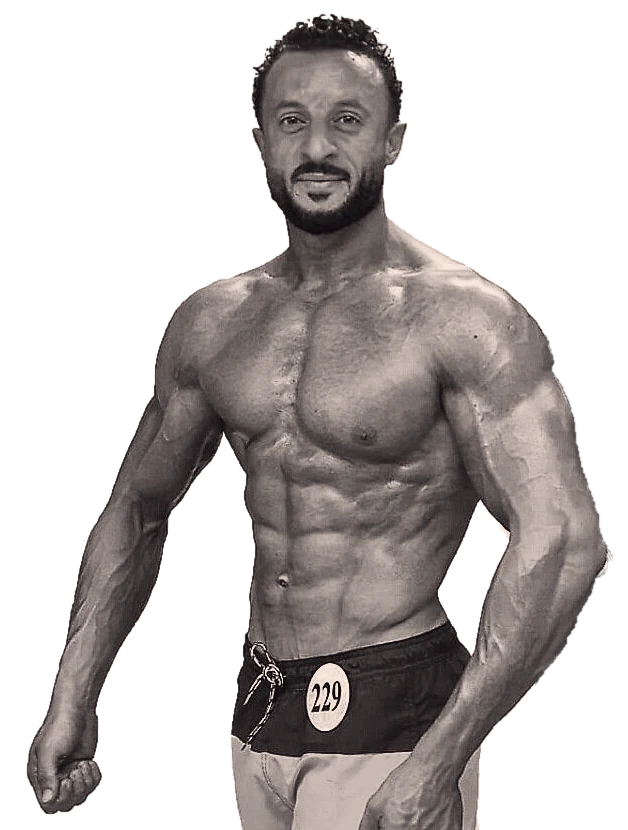
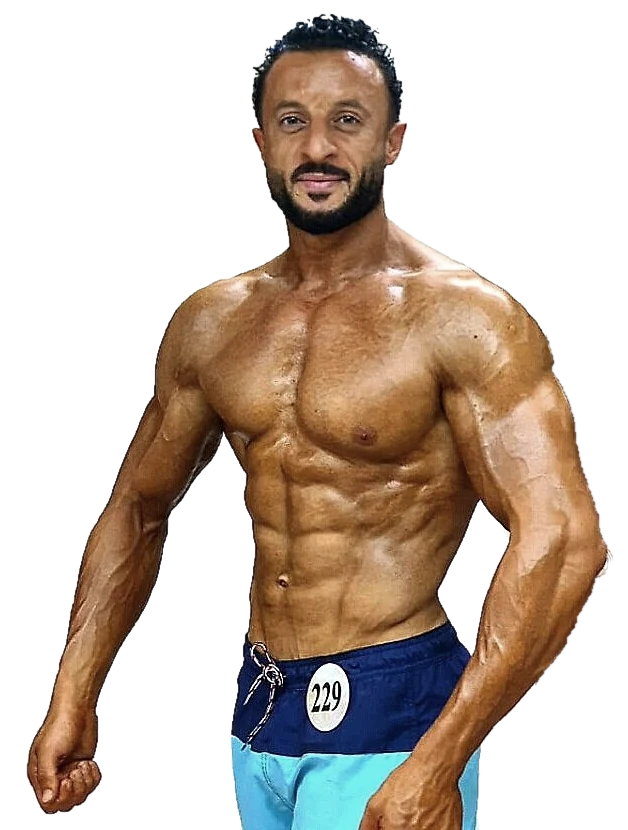
Give MEGO a portrait-led mobile layout and faster coaching enquiries

diff --git a/src/index.css b/src/index.css
@@ -339,26 +339,57 @@ main:focus, section:focus { outline: none; }
 .services .eyebrow { color: #a12f28; }
 .services .section-heading > p:last-child { color: #514d4b; }
 
-.service-grid {
+.services > .wrap {
   display: grid;
-  grid-template-columns: repeat(3, minmax(0, 1fr));
-  margin-block-start: clamp(2rem, 4vw, 3.75rem);
-  border: 1px solid #cbc3bc;
+  grid-template-columns: .82fr 1.18fr;
+  align-items: start;
+  gap: clamp(2.5rem, 7vw, 7rem);
 }
-
-.service {
+.services .section-heading { max-inline-size: 30rem; }
+.service-grid { border-block-start: 2px solid var(--ink); }
+.service { border-block-end: 1px solid #bcb4ab; }
+.service summary {
   display: grid;
-  grid-template-rows: auto auto 1fr auto auto;
-  justify-items: start;
-  padding: clamp(1.4rem, 2.75vw, 2.75rem);
-  min-inline-size: 0;
+  grid-template-columns: 1fr auto;
+  gap: .25rem .75rem;
+  align-items: center;
+  padding-block: 1.25rem;
+  cursor: pointer;
+  list-style: none;
 }
-
-.service + .service { border-inline-start: 1px solid #cbc3bc; }
-.service-mode { font-size: .875rem; color: #8e3028; font-weight: 700; }
-.service h3 { font: 800 clamp(2rem, 3.25vw, 3.5rem)/.95 var(--display); margin-block: .5rem 1rem; }
-[dir='rtl'] .service h3 { font: 900 clamp(1.7rem, 2.7vw, 2.9rem)/1.12 var(--arabic); }
-
+.service summary::-webkit-details-marker { display: none; }
+.service-mode {
+  font-size: .8125rem;
+  color: #8e3028;
+  font-weight: 700;
+  letter-spacing: .04em;
+}
+.service-name {
+  grid-column: 1;
+  font: 800 clamp(2rem, 3.2vw, 3.35rem)/1 var(--display);
+}
+[dir='rtl'] .service-name { font: 800 clamp(1.75rem, 2.7vw, 2.9rem)/1.15 var(--arabic); }
+.service-toggle {
+  grid-column: 2;
+  grid-row: 1 / 3;
+  display: grid;
+  place-items: center;
+  inline-size: 2.5rem;
+  block-size: 2.5rem;
+  border: 1px solid #bcb4ab;
+  border-radius: 50%;
+}
+.service-toggle::before, .service-toggle::after {
+  content: '';
+  grid-area: 1 / 1;
+  inline-size: .85rem;
+  block-size: 2px;
+  background: currentColor;
+}
+.service-toggle::after { transform: rotate(90deg); }
+.service[open] .service-toggle { background: var(--ink); border-color: var(--ink); color: var(--paper); }
+.service[open] .service-toggle::after { display: none; }
+.service-body { max-inline-size: 36rem; padding-block-end: 1.6rem; }
 .service-summary { color: #514d4b; }
 .service ul { list-style: none; padding: 1rem 0 0; margin-block: 1rem 1.6rem; border-block-start: 1px solid #d6cec6; inline-size: 100%; }
 .service li { display: flex; align-items: baseline; gap: .65rem; font-size: .9rem; margin-block: .25rem; }
@@ -425,14 +456,24 @@ main:focus, section:focus { outline: none; }
   .hero-portrait { inset-inline-end: 6%; }
   .hero-visual { inset-inline-start: 33%; }
   .proof-grid li { flex-direction: column; gap: .45rem; min-block-size: 6.9rem; text-align: center; }
-  .service h3 { min-block-size: 2lh; }
+
 }
 
 @media (max-width: 740px) {
   :root { --header-height: 64px; }
 
-  .desktop-nav, .header-book { display: none; }
-  .header-actions { gap: .85rem; }
+  .desktop-nav { display: none; }
+  .header-inner { gap: .5rem; }
+  .header-actions { gap: clamp(.35rem, 1.8vw, .8rem); }
+  .language-button { min-inline-size: 2.75rem; }
+  .header-book {
+    min-block-size: 2.75rem;
+    padding-inline: .8rem;
+    background: var(--paper);
+    border-color: var(--paper);
+    color: var(--ink);
+  }
+  .header-book:hover { background: white; }
 
   .menu-button {
     display: grid;
@@ -459,50 +500,83 @@ main:focus, section:focus { outline: none; }
   .mobile-nav a { padding-block: .65rem; font-weight: 600; }
   .mobile-nav a + a { border-block-start: 1px solid var(--line); }
 
-  .hero-inner { min-block-size: 0; }
-  .hero-copy { padding-block: 3rem 2rem; }
-  .hero-title { font-size: clamp(4.5rem, 13vw, 6.2rem); }
-  [dir='rtl'] .hero-title { font-size: clamp(3.5rem, 10vw, 5.2rem); }
-  .hero-description { max-inline-size: 25rem; }
-
-  .hero-visual {
-    position: relative;
-    order: 1;
-    inset: auto;
-    z-index: 0;
-    block-size: clamp(20rem, 84vw, 31rem);
-    margin-inline: calc(-1 * clamp(1.25rem, 5.3vw, 5.5rem));
-    background: repeating-linear-gradient(120deg, #ffb5a916 0 1px, transparent 1px 38px),
-                radial-gradient(ellipse at 57% 44%, #96433a, #39171b 83%);
+  .hero-inner {
+    inline-size: 100%;
+    min-block-size: clamp(35rem, calc(96svh - var(--header-height)), 46rem);
+    align-items: end;
   }
+  .hero-visual {
+    inset: 0;
+    background: radial-gradient(ellipse at 53% 21%, #b7543e, #743328 50%, #271712 88%);
+  }
+  .hero-background-type {
+    inset-block-start: .65rem;
+    inset-inline: 0;
+    text-align: center;
+    font: 800 clamp(8rem, 47vw, 17rem)/.78 var(--display);
+    color: #f3d5ae;
+    letter-spacing: -.035em;
+  }
+  .hero-portrait {
+    left: 50%;
+    right: auto;
+    top: 1.45rem;
+    bottom: auto;
+    transform: translateX(-47%);
+    height: 92%;
+    filter: drop-shadow(7px 6px 12px #32151166);
+  }
+  .hero-visual::after, [dir='rtl'] .hero-visual::after {
+    background: linear-gradient(to top, #161310 0%, #161310fa 12%, #161310c9 27%, #16131036 49%, transparent 64%);
+  }
+  .hero-copy {
+    max-inline-size: none;
+    padding: clamp(14.75rem, 39svh, 21rem) clamp(1.25rem, 5.3vw, 2.5rem) 1.4rem;
+  }
+  .hero-copy .eyebrow {
+    color: #ffebda;
+    font-size: .78rem;
+    text-shadow: 0 1px 6px #351710;
+  }
+  .hero-copy .eyebrow::before { background: var(--accent); inline-size: 1.15rem; }
+  .hero-title {
+    font-size: clamp(4rem, 18vw, 7rem);
+    line-height: .82;
+    margin-block: .65rem .8rem;
+  }
+  .hero-title em { color: #ff735c; }
+  [dir='rtl'] .hero-title { font-size: clamp(3rem, 13vw, 5.25rem); line-height: 1.04; }
+  .hero-description { max-inline-size: 27rem; color: #f3ebe6; line-height: 1.48; }
+  .hero-actions { gap: .75rem; margin-block-start: 1.15rem; }
+  .hero-actions .button { flex: 1 0 auto; max-width: 14rem; }
+  .film-button { min-block-size: 3.25rem; gap: .45rem; }
+  .play-icon { inline-size: 2rem; block-size: 2rem; }
+  .hero-credit { display: none; }
 
-  .hero-visual::after, [dir='rtl'] .hero-visual::after { background: linear-gradient(0deg, #151113 1%, transparent 30%); }
-  .hero-portrait { inset-inline-end: 50%; transform: translateX(50%); block-size: 106%; inset-block-end: -9%; }
-  [dir='rtl'] .hero-portrait { transform: translateX(-50%); }
-  .hero-background-type { inset-inline-end: 8%; inset-block-start: 16%; font-size: clamp(9rem, 34vw, 15rem); }
-  .hero-credit { z-index: 1; inset-block-end: 1rem; font-size: .75rem; }
+  .proof-grid li { min-block-size: 6.5rem; padding-inline: .35rem; }
+  .proof-grid strong { font-size: clamp(2.45rem, 9vw, 3.5rem); }
+  .proof-grid span { max-inline-size: 8rem; font-size: .8125rem; }
 
-  .service-grid { grid-template-columns: 1fr; }
-  .service + .service { border-inline-start: 0; border-block-start: 1px solid #cbc3bc; }
-  .service h3 { min-block-size: 0; margin-block-end: .75rem; }
+  .services > .wrap { grid-template-columns: 1fr; gap: 1.65rem; }
+  .service-body .button { min-block-size: 3rem; }
+  .service summary { padding-block: 1rem; }
 
-  .about { padding-block: 0; }
+  .about { padding-block: 2rem 0; }
   .about-inner { grid-template-columns: 1fr; gap: 0; }
-  .about-photo { order: 1; margin-inline: calc(-1 * clamp(1.25rem, 5.3vw, 5.5rem)); }
-  .about-photo img { aspect-ratio: 1.04; }
-  .about-photo figcaption { padding-inline: clamp(1.25rem, 5.3vw, 5.5rem); }
-  .about-copy { padding-block: 3.5rem; }
+  .about-photo { border-inline-start: 4px solid var(--accent); }
+  .about-photo img { aspect-ratio: 1.45; object-position: 50% 35%; }
+  .about-copy { padding-block: 2rem 3.25rem; }
+  .credentials { padding-block: 3.5rem; }
+  .credential-list li { grid-template-columns: 4.5rem 1fr; }
+  .footer-main { display: grid; grid-template-columns: 1fr 1fr; gap: 1.5rem; }
+  .footer-brand { grid-column: 1 / -1; }
+  .site-footer nav { display: grid; gap: 0; }
+  .site-footer nav a { display: flex; align-items: center; min-block-size: 2.75rem; }
 
   .credential-layout { grid-template-columns: 1fr; }
   .contact-inner { flex-direction: column; align-items: start; gap: 1.5rem; }
-  .contact-action { justify-items: start; }
-}
-
-@media (max-width: 375px) {
-  .hero-title { font-size: clamp(3.55rem, 13vw, 4.5rem); }
-  [dir='rtl'] .hero-title { font-size: clamp(3rem, 10vw, 3.5rem); }
-  .proof-grid span { font-size: .75rem; }
-  .hero-credit { inset-inline-end: -.35rem; }
+  .contact-action { inline-size: 100%; }
+  .contact-action .button { inline-size: 100%; }
 }
 
 @media (prefers-reduced-motion: reduce) {

diff --git a/src/components/Services.jsx b/src/components/Services.jsx
@@ -59,22 +59,27 @@ export default function Services() {
         </div>
 
         <div className="service-grid">
-          {services.map(({ mode, name, summary, details, message }) => (
-            <article className="service" key={name[0]}>
-              <p className="service-mode">{t(...mode)}</p>
-              <h3>{t(...name)}</h3>
-              <p className="service-summary">{t(...summary)}</p>
-              <ul>{details.map(detail => <li key={detail[0]}>{t(...detail)}</li>)}</ul>
-              <a
-                className="button button--outline"
-                href={bookingUrl(t(...message))}
-                target="_blank"
-                rel="noopener noreferrer"
-                aria-label={t('Ask about ' + name[0].toLowerCase() + ' on WhatsApp', 'استفسر عن ' + name[1] + ' على واتساب')}
-              >
-                {t('Ask about this program', 'استفسر عن البرنامج')}
-              </a>
-            </article>
+          {services.map(({ mode, name, summary, details, message }, index) => (
+            <details className="service" name="coaching-program" key={name[0]} open={index === 0}>
+              <summary>
+                <span className="service-mode">{t(...mode)}</span>
+                <span className="service-name">{t(...name)}</span>
+                <span className="service-toggle" aria-hidden="true" />
+              </summary>
+              <div className="service-body">
+                <p className="service-summary">{t(...summary)}</p>
+                <ul>{details.map(detail => <li key={detail[0]}>{t(...detail)}</li>)}</ul>
+                <a
+                  className="button button--outline"
+                  href={bookingUrl(t(...message))}
+                  target="_blank"
+                  rel="noopener noreferrer"
+                  aria-label={t('Ask about ' + name[0].toLowerCase() + ' on WhatsApp', 'استفسر عن ' + name[1] + ' على واتساب')}
+                >
+                  {t('Ask MEGO on WhatsApp', 'اسأل ميجو على واتساب')}
+                </a>
+              </div>
+            </details>
           ))}
         </div>
       </div>

diff --git a/src/components/Hero.jsx b/src/components/Hero.jsx
@@ -33,20 +33,19 @@ export default function Hero() {
         </div>
 
         <div className="hero-copy">
-          <p className="eyebrow">{t('Physique coaching · Riyadh, KSA', 'تدريب فيزيك · الرياض، السعودية')}</p>
+          <p className="eyebrow">{t('Mohamed Abd Al Mageid · Riyadh', 'محمد عبد المجيد · الرياض')}</p>
           <h1 id="hero-title" className="hero-title">
-            <span>{t('BUILD YOUR', 'ابنِ جسمًا')}</span>
-            <span>{t('STRONGEST', 'أقوى')}</span>
-            <em>{t('PHYSIQUE.', 'مع ميجو.')}</em>
+            <span>{t('PHYSIQUE', 'تدريب')}</span>
+            <em>{t('COACHING.', 'فيزيك.')}</em>
           </h1>
           <p className="hero-description">
             {t(
-              'Train with Mohamed “MEGO” Abd Al Mageid. Personal coaching, a clear training plan, and nutrition built around your goals.',
-              'تدرّب مع محمد «ميجو» عبد المجيد. تدريب شخصي، وخطة تمرين واضحة، وتغذية تناسب أهدافك.'
+              'Train with me in Riyadh, or follow a personal lifting plan with weekly online check-ins.',
+              'تدرّب معي في الرياض، أو اتبع خطة تمارين مخصصة مع متابعة أسبوعية عن بُعد.'
             )}
           </p>
           <div className="hero-actions">
-            <a className="button button--primary" href="#contact">{t('Book coaching', 'احجز تدريبك')}</a>
+            <a className="button button--primary" href="#services">{t('Explore programs', 'تصفّح البرامج')}</a>
             <button ref={trigger} className="film-button" type="button" onClick={playFilm}>
               <span className="play-icon" aria-hidden="true" />
               {t('Watch training reel', 'شاهد فيديو التدريب')}

diff --git a/src/components/Contact.jsx b/src/components/Contact.jsx
@@ -1,12 +1,8 @@
 import { useLang } from '../context/LangContext'
-import { bookingUrl, phone } from '../site'
+import { generalInquiry, phone } from '../site'
 
 export default function Contact() {
   const { t } = useLang()
-  const message = t(
-    'Hi Coach MEGO, I’d like to talk about coaching and which program would fit my goals.',
-    'مرحبًا كوتش ميجو، أود معرفة البرنامج التدريبي الأنسب لأهدافي.'
-  )
 
   return (
     <section id="contact" className="contact" tabIndex={-1} aria-labelledby="contact-title">
@@ -17,7 +13,7 @@ export default function Contact() {
           <p>{t('Tell me what you want to work on. We’ll figure out which program fits.', 'أخبرني عن هدفك، ونختار معًا البرنامج الذي يناسبك.')}</p>
         </div>
         <div className="contact-action">
-          <a className="button button--dark" href={bookingUrl(message)} target="_blank" rel="noopener noreferrer">
+          <a className="button button--dark" href={generalInquiry(t)} target="_blank" rel="noopener noreferrer">
             {t('Message MEGO on WhatsApp', 'راسل ميجو على واتساب')}
           </a>
           <bdi dir="ltr">{phone}</bdi>

diff --git a/src/components/Header.jsx b/src/components/Header.jsx
@@ -1,6 +1,6 @@
 import { useRef, useState } from 'react'
 import { useLang } from '../context/LangContext'
-import { navigation } from '../site'
+import { generalInquiry, navigation } from '../site'
 
 export default function Header() {
   const { isAr, t, toggle } = useLang()
@@ -35,8 +35,8 @@ export default function Header() {
           <button className="language-button" type="button" onClick={toggle} lang={isAr ? 'en' : 'ar'}>
             {t('عربي', 'English')}
           </button>
-          <a className="button button--outline header-book" href="#contact">
-            {t('Book coaching', 'احجز تدريبك')}
+          <a className="button button--outline header-book" href={generalInquiry(t)} target="_blank" rel="noopener noreferrer">
+            {t('WhatsApp', 'واتساب')}
           </a>
           <button
             ref={menuButton}

diff --git a/src/site.js b/src/site.js
@@ -12,6 +12,13 @@ export const socials = [
 
 export const phone = '+966 50 017 6066'
 
+export function generalInquiry(t) {
+  return bookingUrl(t(
+    'Hi Coach MEGO, I’d like to talk about coaching and which program would fit my goals.',
+    'مرحبًا كوتش ميجو، أود معرفة البرنامج التدريبي الأنسب لأهدافي.'
+  ))
+}
+
 export function bookingUrl(message) {
   return 'https://wa.me/966500176066?text=' + encodeURIComponent(message)
 }
